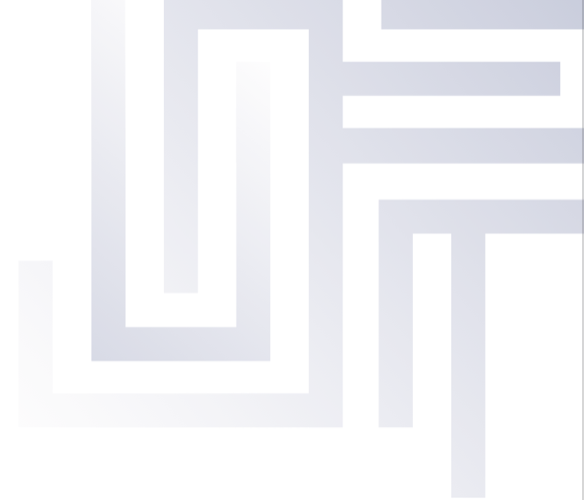
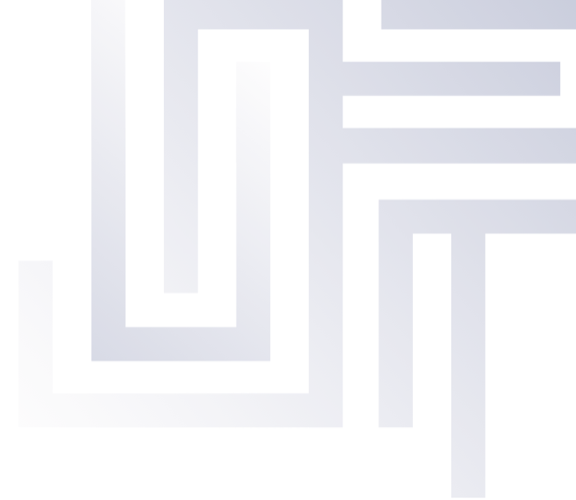
adjust template

diff --git a/CLAUDE.md b/CLAUDE.md
@@ -1,35 +1,2 @@
 # CLAUDE.md
-
-## Commands
-
-```bash
-# Build PDF (requires latexmk)
-latexmk -r conf/latexmkrc main.tex
-
-# Clean build artifacts
-latexmk -r conf/latexmkrc -C main.tex
-```
-
-Output PDF is written to `out/main.pdf`.
-
-## Requirements
-
-- **Compiler**: XeLaTeX (pdflatex will fail — fontspec is required for Thai support)
-- **Font**: TH Sarabun New must be installed on the system
-
-## Architecture
-
-```
-main.tex              # Entry point; includes all sections
-easreport.cls         # Custom LaTeX class (Thai fonts, headers, layout)
-conf/latexmkrc        # Build config: XeLaTeX engine, out/ output dir
-sections/             # One .tex file per section, named [letter]_[topic].tex
-figures/              # Images referenced in sections
-assets/               # Watermark and other assets
-```
-
-## Gotchas
-
-- `\microtypecontext{spacing=nonadjacent}` must appear in `main.tex` preamble when using microtype with Thai fonts
-- Use `\sloppy` / `\fussy` in sections to control Thai text line-breaking
-- Build artifacts (`.aux`, `.log`, `.toc`, etc.) are gitignored; `out/` dir is not committed
+symlink to AGENTS.md

diff --git a/AGENTS.md b/AGENTS.md
@@ -1,0 +1,35 @@
+# CLAUDE.md
+
+## Commands
+
+```bash
+# Build PDF (requires latexmk)
+latexmk -r conf/latexmkrc main.tex
+
+# Clean build artifacts
+latexmk -r conf/latexmkrc -C main.tex
+```
+
+Output PDF is written to `gateway-ea.pdf`.
+
+## Requirements
+
+- **Compiler**: XeLaTeX (pdflatex will fail — fontspec is required for Thai support)
+- **Font**: TH Sarabun New must be installed on the system
+
+## Architecture
+
+```
+main.tex              # Entry point; includes all sections
+easreport.cls         # Custom LaTeX class (Thai fonts, headers, layout)
+conf/latexmkrc        # Build config: XeLaTeX engine, out/ output dir
+sections/             # One .tex file per section, named [letter]_[topic].tex
+figures/              # Images referenced in sections
+assets/               # Watermark and other assets
+```
+
+## Gotchas
+
+- `\microtypecontext{spacing=nonadjacent}` must appear in `main.tex` preamble when using microtype with Thai fonts
+- Use `\sloppy` / `\fussy` in sections to control Thai text line-breaking
+- Build artifacts (`.aux`, `.log`, `.toc`, etc.) are gitignored; `out/` dir is not committed
